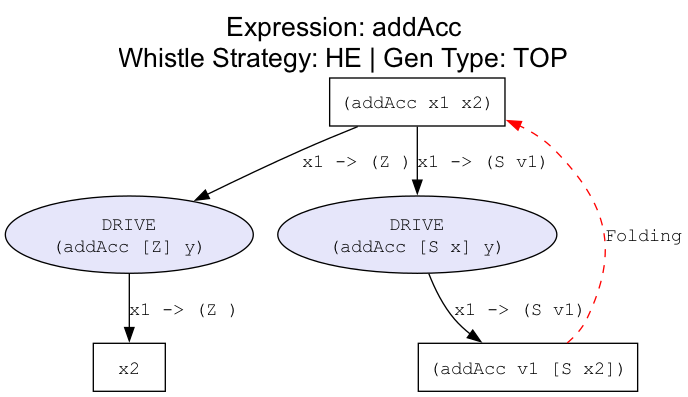
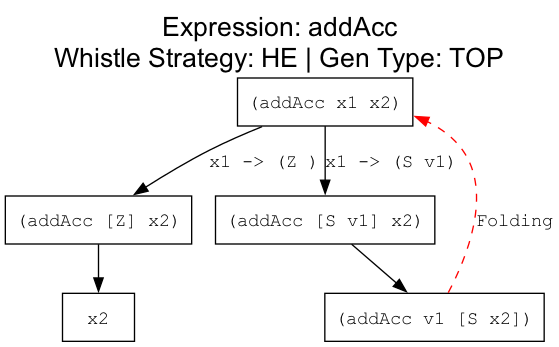
Последнее обновление

diff --git a/sll/residualizer.py b/sll/residualizer.py
@@ -1,7 +1,8 @@
 from typing import List, Dict, Tuple
 from sll.ast_nodes import Program, Rule, Pattern, Expr, Var, Ctr, FCall, IntLit
 from sll.process_tree import Node
-from sll.matching import substitute
+from sll.matching import substitute, match, MatchSuccess
+
 
 class Residualizer:
     def __init__(self, tree_root: Node):
@@ -11,8 +12,44 @@ class Residualizer:
         self.f_count = 0
         self.g_count = 0
 
+    def _rewrite_expr(self, expr: Expr) -> Expr:
+        match expr:
+            case Var(_) | IntLit(_):
+                return expr
+
+            case Ctr(name, args):
+                return Ctr(name, [self._rewrite_expr(a) for a in args], lineno=expr.lineno, tag=expr.tag)
+
+            case FCall(_, _):
+                for target in self.node_to_sig.keys():
+                    if not isinstance(target.expr, FCall):
+                        continue
+                    if isinstance(expr, FCall) and target.expr.name != expr.name:
+                        continue
+                    m = match(target.expr, expr)
+
+                    if isinstance(m, MatchSuccess):
+                        return self._call_registered(target, expr)
+
+                return FCall(expr.name, [self._rewrite_expr(a) for a in expr.args], lineno=expr.lineno, tag=expr.tag)
+
+            case _:
+                return expr
+
+
+    def _call_registered(self, target: Node, current_expr: Expr) -> Expr:
+        func_name, params = self.node_to_sig[target]
+
+        m = match(target.expr, current_expr)
+        if not isinstance(m, MatchSuccess):
+            return FCall(func_name, self._get_vars(current_expr))
+
+        args = [m.bindings.get(v.name, v) for v in params]  # важен порядок params
+        return FCall(func_name, args)
+
     def residualize(self) -> Program:
         self._find_functions(self.root)
+
         # Сортировка для детерминизма (по id узла или порядку добавления)
         nodes = list(self.node_to_sig.keys())
         # Можно отсортировать по именам функций для красоты, но не обязательно
@@ -76,45 +113,48 @@ class Residualizer:
                         lhs_params.append(var)
 
                 pat = Pattern(name, lhs_params)
-                body = self._transform(child)
+                body = self._rewrite_expr(self._transform(child))
                 self.rules.append(Rule(pat, body))
         else:
             pat = Pattern(name, params)
             if not node.children:
-                body = node.expr
+                body = self._rewrite_expr(node.expr)
             elif node.children[0].contraction and node.children[0].contraction.pattern is None:
                 # Generalization case
                 bindings = {}
                 for child in node.children:
                     bindings[child.contraction.var_name] = self._transform(child)
-                body = substitute(node.expr, bindings)
+                body = self._rewrite_expr(substitute(node.expr, bindings))
             elif isinstance(node.expr, Ctr):
                 new_args = [self._transform(c) for c in node.children]
                 body = Ctr(node.expr.name, new_args)
             elif len(node.children) == 1:
                 body = self._transform(node.children[0])
             else:
-                body = node.expr
+                body = self._rewrite_expr(node.expr)
             self.rules.append(Rule(pat, body))
 
     def _transform(self, node: Node) -> Expr:
         if node.back_link:
-            target = node.back_link
-            func_name, func_params = self.node_to_sig[target]
-            return FCall(func_name, self._get_vars(node.expr))
+            return self._call_registered(node.back_link, node.expr)
 
         if node in self.node_to_sig:
-            func_name, func_params = self.node_to_sig[node]
-            return FCall(func_name, self._get_vars(node.expr))
+            return self._call_registered(node, node.expr)
 
         if isinstance(node.expr, Ctr) and node.children:
              new_args = [self._transform(c) for c in node.children]
              return Ctr(node.expr.name, new_args)
 
+        if node.children and node.children[0].contraction and node.children[0].contraction.pattern is None:
+            bindings = {}
+            for c in node.children:
+                bindings[c.contraction.var_name] = self._transform(c)
+            return self._rewrite_expr(substitute(node.expr, bindings))
+
         if len(node.children) == 1:
              return self._transform(node.children[0])
 
-        return node.expr
+        return self._rewrite_expr(node.expr)
 
     def _get_vars(self, expr: Expr) -> List[Var]:
         vars_list = []

diff --git a/sll/supercompiler.py b/sll/supercompiler.py
@@ -77,19 +77,24 @@ class Supercompiler:
 
         # Очередь необработанных узлов
         unprocessed = [self.tree]
-
+        steeeep = 0
         while unprocessed:
             beta = unprocessed.pop(0)
+            steeeep += 1
+            if steeeep == 50:
+                break
 
             # --- Шаг А: Свертка (Folding/Renaming) ---
             # Одинаково для обеих стратегий
             ancestor = _find_renaming_ancestor(beta)
             if ancestor:
                 beta.back_link = ancestor
+                print(f"[FOLD] beta={beta.expr}  -> alpha={ancestor.expr}")
                 continue
 
             # --- Шаг Б: Прогонка (Driving) ---
             step = self.driver.drive(beta.expr, beta.var_types)
+            print(f"[DRIVE] at {beta.expr}  step={type(step).__name__}")
 
             # Если это простое упрощение (TransientStep) — делаем его сразу
             if isinstance(step, TransientStep):
@@ -100,11 +105,14 @@ class Supercompiler:
             # Здесь происходит выбор: HE или TAG
             dangerous_alpha = self._find_embedding_ancestor(beta)
             if dangerous_alpha:
+                print(f"[WHISTLE] alpha={dangerous_alpha.expr}  beta={beta.expr}  strategy={self.strategy}")
                 if self.gen_type == 'TOP':
                     # Классика: рубим дерево сверху
+                    print(f"[GEN] alpha={dangerous_alpha.expr}  beta={beta.expr} gen_type={self.gen_type}")
                     self._generalize(dangerous_alpha, beta, unprocessed)
                 else:
                     # Абрамов: перестраиваем текущий узел снизу
+                    print(f"[GEN] alpha={dangerous_alpha.expr}  beta={beta.expr} gen_type={self.gen_type}[pe]adeijf;jwern")
                     self._generalize_bottom(dangerous_alpha, beta, unprocessed)
                 continue
 
@@ -202,8 +210,6 @@ class Supercompiler:
         """
         # 1. Считаем MSG
         res = msg(alpha.expr, beta.expr)
-        # res.gen - обобщенное выражение (с переменными v1, v2...)
-        # res.sub1 - как получить alpha из gen (v1 -> expr1, ...)
 
         # Если обобщенное выражение совпадает с предком (с точностью до имен),
         # то нет смысла перестраивать дерево. Это просто цикл.
@@ -239,8 +245,6 @@ class Supercompiler:
             # Создаем ребенка.
             child = self._create_node(val_expr, var_types=alpha.var_types.copy())
 
-            # Используем поле contraction, чтобы запомнить имя переменной let-связывания
-            # (var_name='v1', pattern=None)
             let_info = Contraction(var_name=v_name, pattern=None, value=val_expr)
 
             alpha.add_child(child, let_info)
@@ -271,7 +275,7 @@ class Supercompiler:
             child = self._create_node(val_expr, var_types=beta.var_types.copy())
 
             # Помечаем ребро как let-связывание
-            let_info = Contraction(var_name=v_name, pattern=None)
+            let_info = Contraction(var_name=v_name, pattern=None, value=val_expr)
             beta.add_child(child, let_info)
             unprocessed.append(child)
 
@@ -281,7 +285,7 @@ class Supercompiler:
         Итеративно строит графы для всех базисных конфигураций.
         """
         # Набор выражений, которые мы уже суперкомпилировали (базисные конфигурации)
-        processed_configs = {} # {str(expr): Node}
+        processed_configs = {}
 
         # Очередь на суперкомпиляцию. Первым идет стартовое выражение.
         queue = [(start_expr, start_var_types)]

diff --git a/sll/msg.py b/sll/msg.py
@@ -3,6 +3,25 @@ from dataclasses import dataclass
 from typing import Dict, Tuple
 from sll.ast_nodes import Expr, Var, Ctr, FCall, IntLit
 
+def _replace_var(expr: Expr, old: str, new: str) -> Expr:
+    """Заменяет все Var(old) на Var(new) внутри expr."""
+    match expr:
+        case Var(name) if name == old:
+            return Var(new)
+
+        case Ctr(name, args):
+            return Ctr(name, [_replace_var(a, old, new) for a in args])
+
+        case FCall(name, args):
+            return FCall(name, [_replace_var(a, old, new) for a in args])
+
+        case IntLit(_):
+            return expr
+
+        case _:
+            return expr
+
+
 @dataclass
 class GenResult:
     """
@@ -34,6 +53,7 @@ class MSGBuilder:
         self.counter = 0
         self.memo = {}
         gen, s1, s2 = self._gen_recursive(t1, t2)
+        gen, s1, s2 = self._merge_duplicate_holes(gen, s1, s2)
         return GenResult(gen, s1, s2)
 
     def _gen_recursive(self, t1: Expr, t2: Expr) -> Tuple[Expr, Dict[str, Expr], Dict[str, Expr]]:
@@ -93,6 +113,29 @@ class MSGBuilder:
             return Ctr(name, new_args), full_s1, full_s2
         else:
             return FCall(name, new_args), full_s1, full_s2
+
+    def _merge_duplicate_holes(self, gen: Expr, s1: Dict[str, Expr], s2: Dict[str, Expr]):
+        """
+        Сливает разные переменные v_i, v_j в одну
+        """
+        groups: Dict[tuple, list[str]] = {}
+        for v in list(s1.keys()):
+            key = (str(s1[v]), str(s2.get(v)))
+            groups.setdefault(key, []).append(v)
+
+        for _, vars_ in groups.items():
+            if len(vars_) <= 1:
+                continue
+
+            vars_.sort(key=natural_key)
+            keep = vars_[0]
+
+            for old in vars_[1:]:
+                gen = _replace_var(gen, old, keep)
+                s1.pop(old, None)
+                s2.pop(old, None)
+
+        return gen, s1, s2
 
 
 def msg(t1: Expr, t2: Expr) -> GenResult:

diff --git a/sll/matching.py b/sll/matching.py
@@ -40,6 +40,17 @@ class MatchFail(MatchResult):
     """Решений нет (конфликт конструкторов)."""
     pass
 
+def merge_bindings(dst: Dict[str, Expr], src: Dict[str, Expr]) -> Optional[Dict[str, Expr]]:
+    """
+    Аккуратно сливает bindings: если ключ уже был и значение другое — конфликт.
+    Возвращает dst или None при конфликте.
+    """
+    for k, v in src.items():
+        if k in dst and dst[k] != v:
+            return None
+        dst[k] = v
+    return dst
+
 
 def match(pattern: Expr, expr: Expr) -> MatchResult:
     """
@@ -81,7 +92,8 @@ def match(pattern: Expr, expr: Expr) -> MatchResult:
                                 return res # Пробрасываем сужение вверх
 
                             case MatchSuccess(bindings):
-                                total_bindings.update(bindings) # Собираем все подстановки
+                                if merge_bindings(total_bindings, bindings) is None:
+                                    return MatchFail()
 
                     return MatchSuccess(bindings=total_bindings)
 
@@ -110,7 +122,9 @@ def match(pattern: Expr, expr: Expr) -> MatchResult:
                             case MatchNarrowing(_, _, _):
                                 return res
                             case MatchSuccess(bindings):
-                                total_bindings.update(bindings)
+                                if merge_bindings(total_bindings, bindings) is None:
+                                    return MatchFail()
+
                     return MatchSuccess(bindings=total_bindings)
                 case _:
                     return MatchFail()

diff --git a/sll/driver.py b/sll/driver.py
@@ -181,20 +181,9 @@ class Driver:
         new_expr = substitute(expr, bindings)
 
         final_expr = new_expr
-        applied_pat = None
-        # Ищем правило, которое теперь точно подойдет
-        for rule in self.program.rules:
-            if rule.pattern.name == expr.name:
-                pat_dummy = FCall("dummy", rule.pattern.params)
-                call_dummy = FCall("dummy", new_expr.args)  # Аргументы уже новые
-                if isinstance(match_term(pat_dummy, call_dummy), MatchSuccess):
-                    match_res = match_term(pat_dummy, call_dummy)  # Получаем bindings
-                    final_expr = substitute(rule.body, match_res.bindings)
-                    applied_pat = rule.pattern
-                    break
 
         contraction = Contraction(var_name, Pattern(constr_name, fresh_vars))
-        return final_expr, contraction, new_branch_types, applied_pat
+        return final_expr, contraction, new_branch_types, None
 
 
     def _drive_nested(self, expr: FCall, var_types: Dict[str, TypeExpr]) -> DriveStep:

diff --git a/sll/exporter.py b/sll/exporter.py
@@ -117,7 +117,7 @@ def to_dot(root: Node, dev_mode=False) -> str:
             is_branch_edge = bool(child.contraction and child.contraction.pattern)
             from_id = uid
 
-            if getattr(child, "driven_rule", None) is not None:
+            if dev_mode and getattr(child, "driven_rule", None) is not None:
                 aux_counter += 1
                 drive_id = f"drv{aux_counter}"
 
@@ -133,7 +133,7 @@ def to_dot(root: Node, dev_mode=False) -> str:
                 lines.append(f'    {uid} -> {drive_id} [label="{branch_label}"];')
                 from_id = drive_id
 
-            if getattr(child, "gen_result", None) is not None:
+            if dev_mode and getattr(child, "gen_result", None) is not None:
                 aux_counter += 1
                 gen_id = f"gen{aux_counter}"
 
